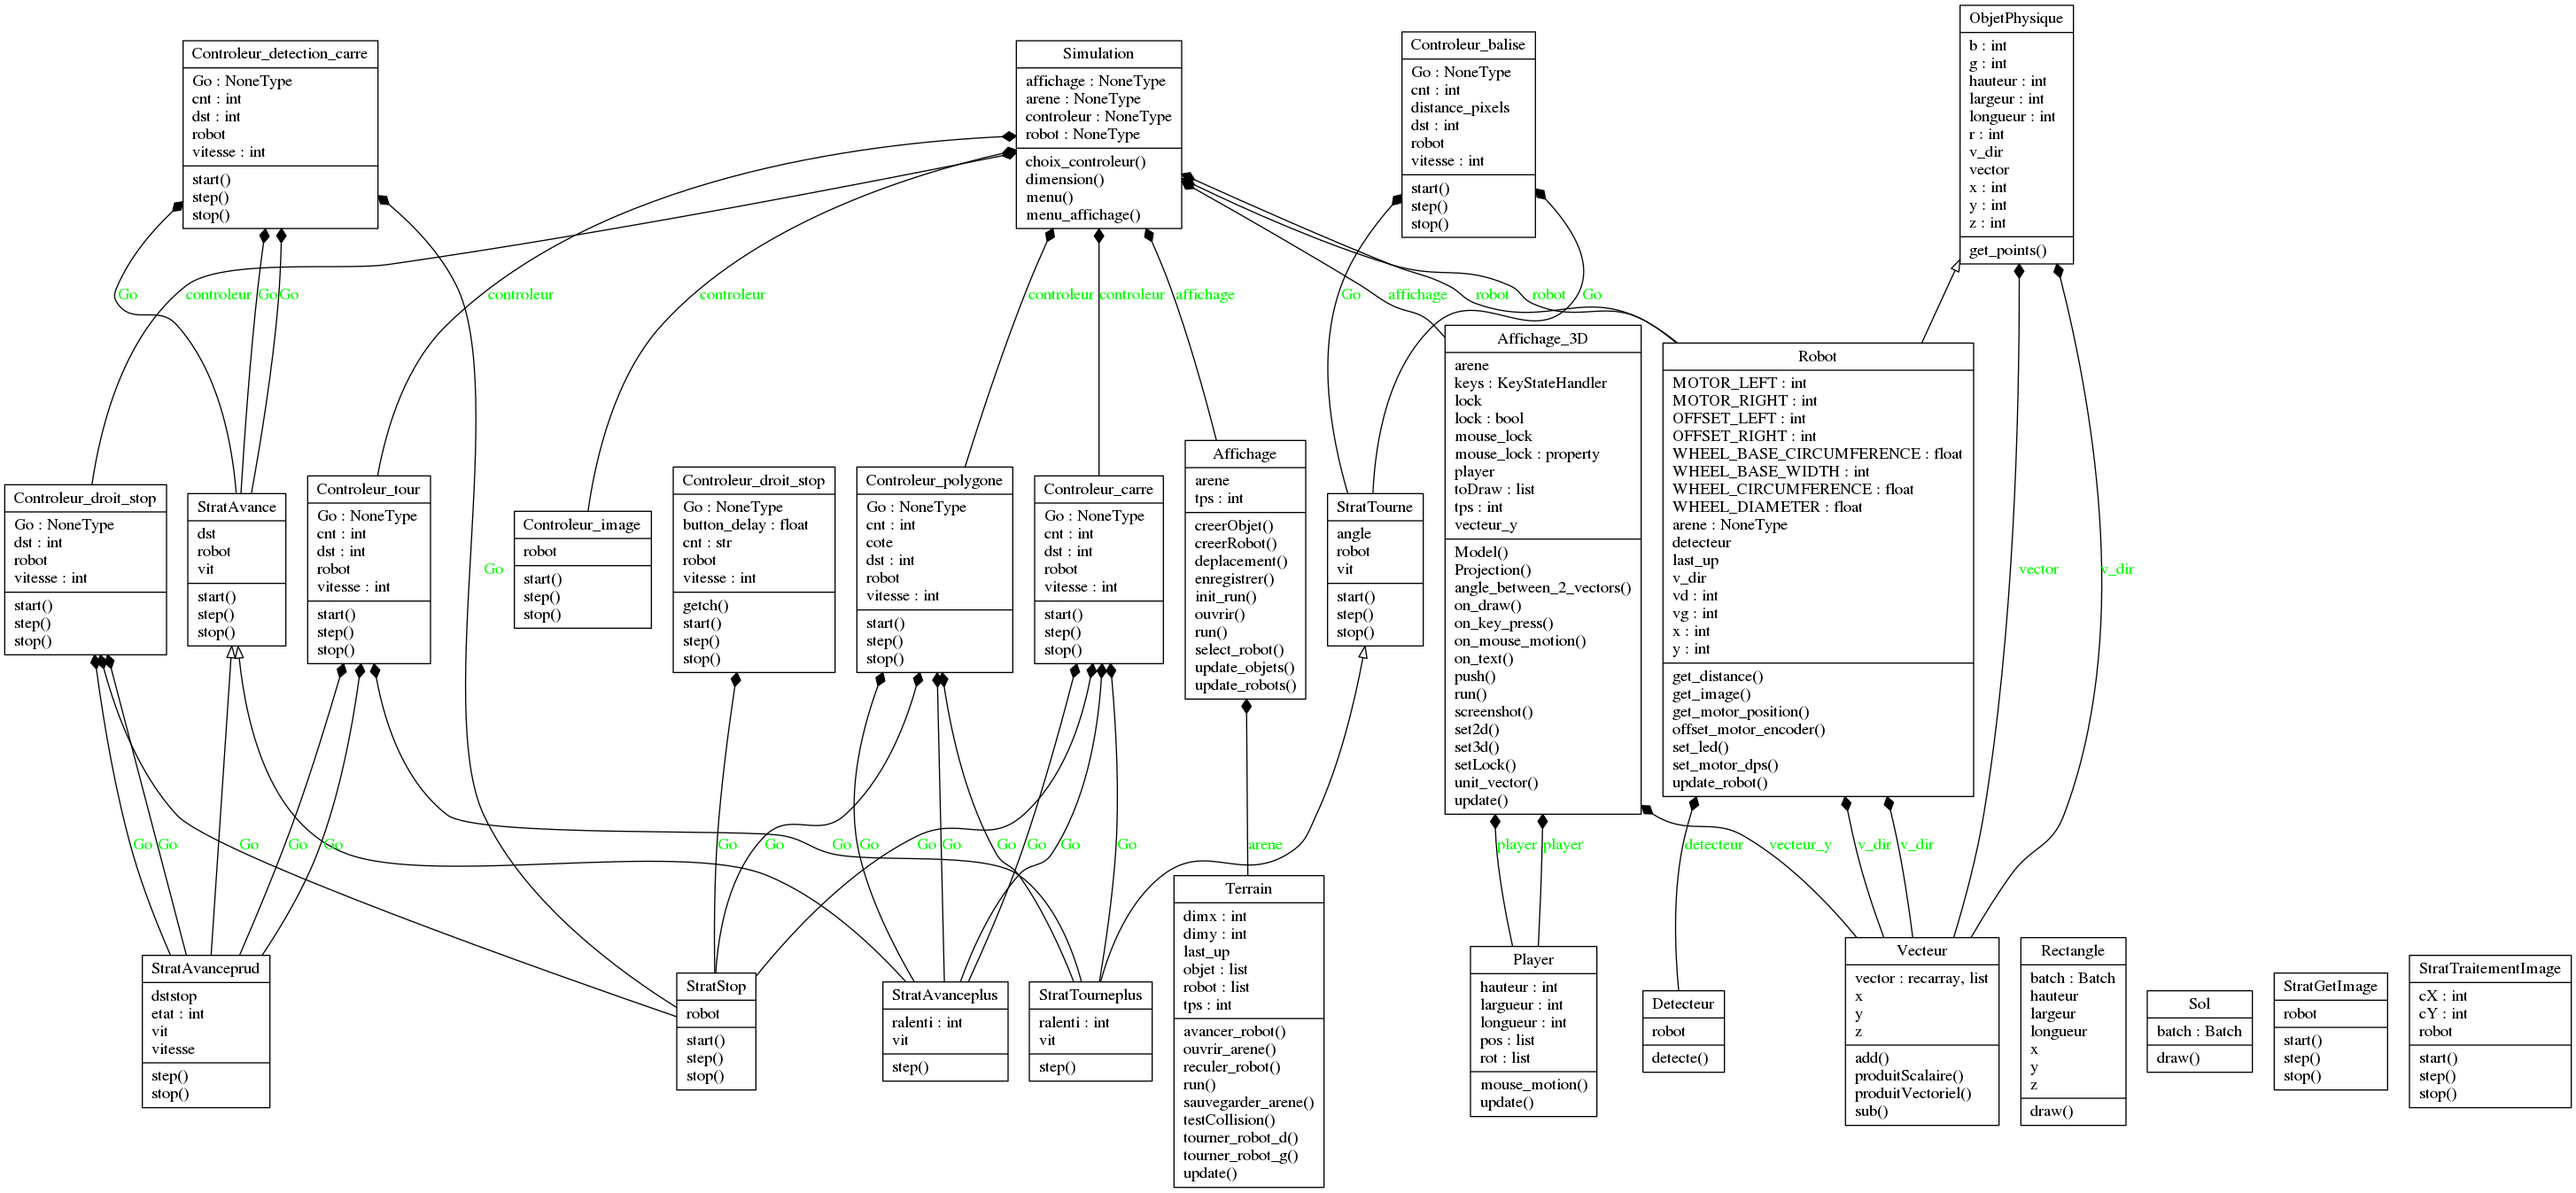
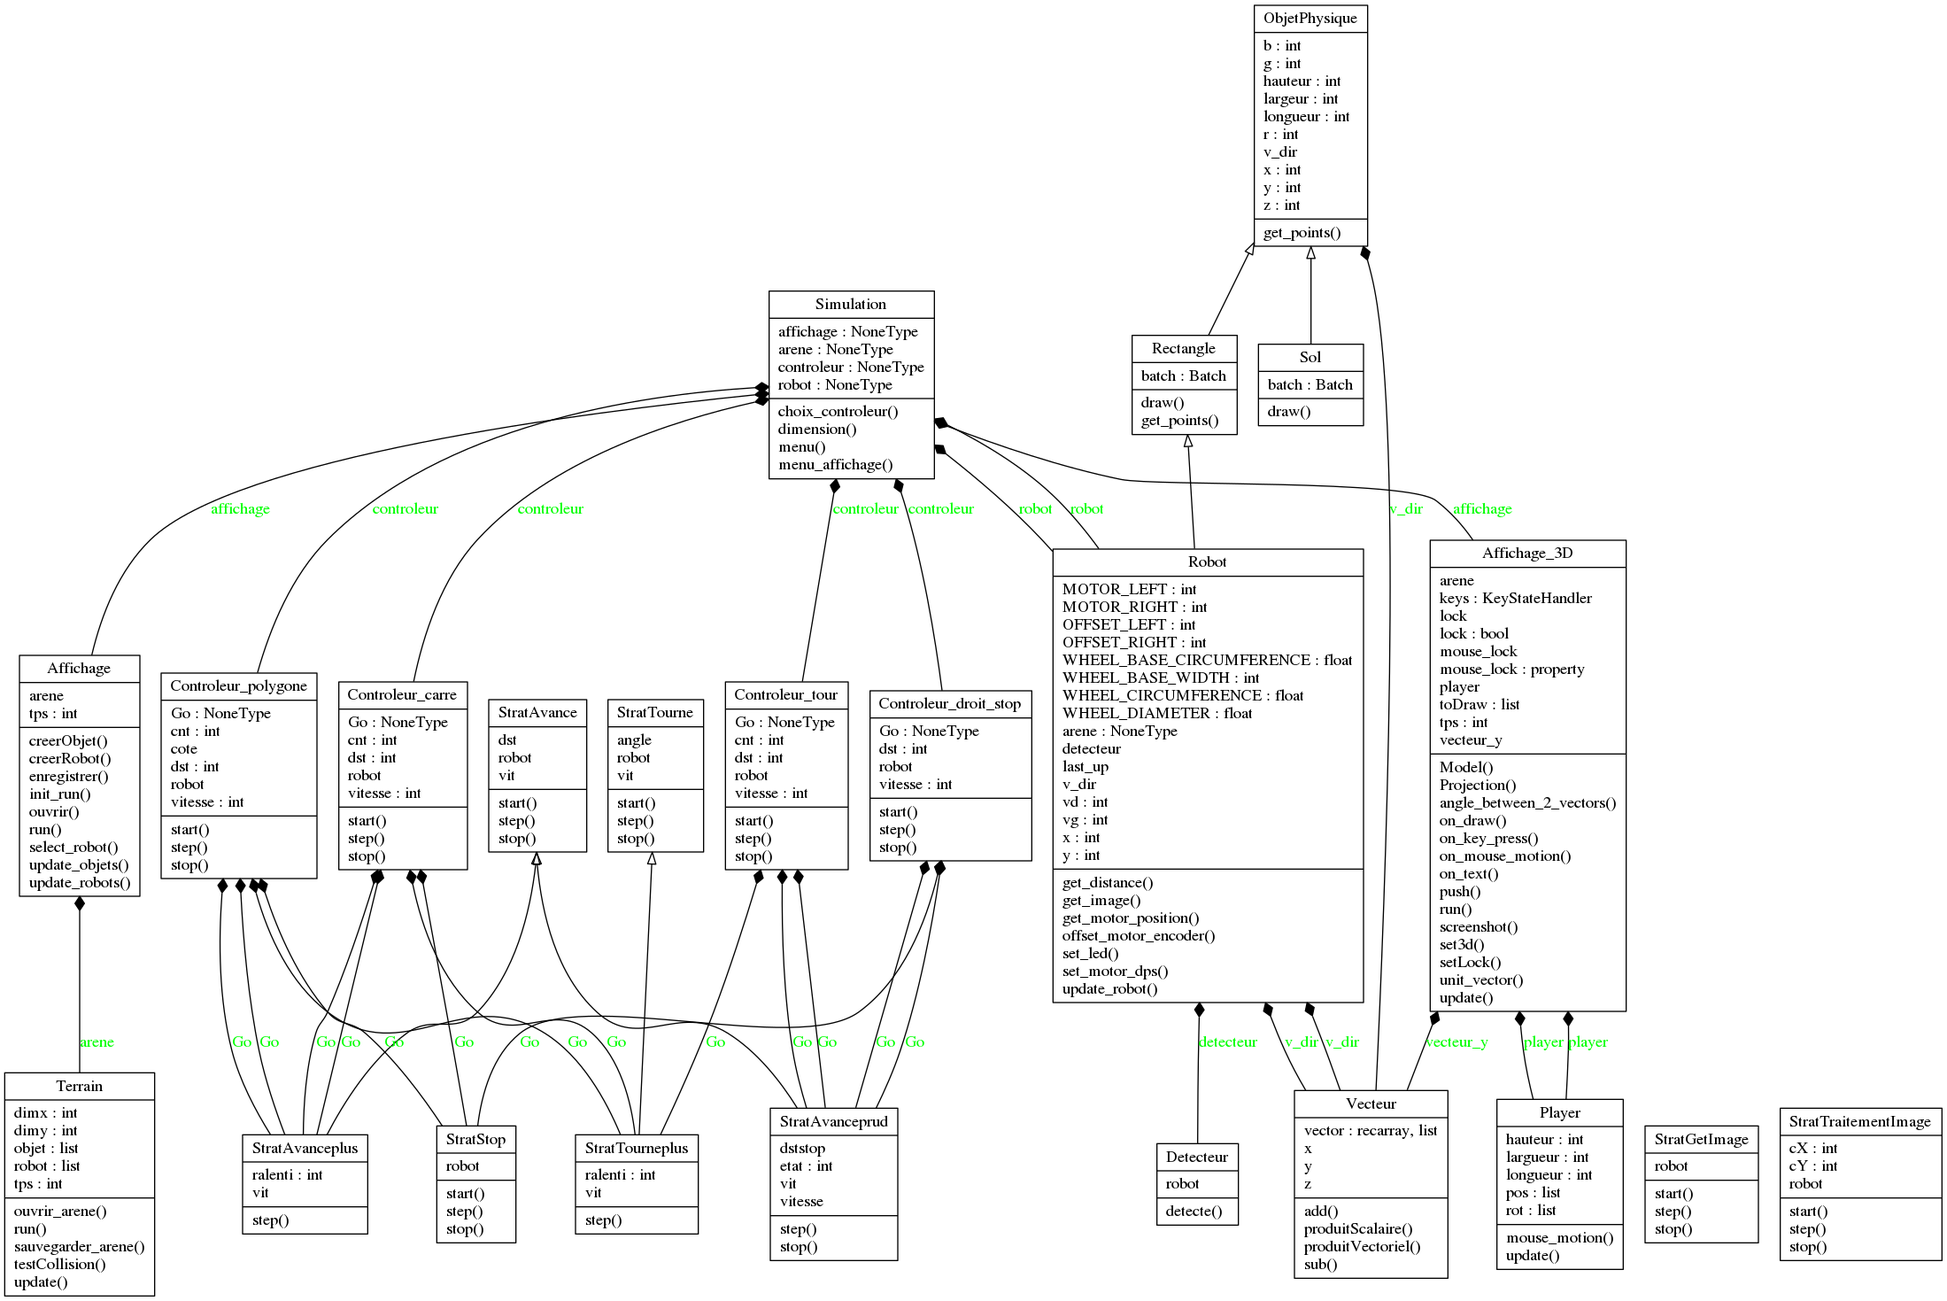
modifs

diff --git a/code/affichage_3D.py b/code/affichage_3D.py
@@ -11,116 +11,13 @@ import math
 import random
 import numpy
 from .terrain import Terrain
-from composant import Rectangle, Vecteur
+from composant import Rectangle, Vecteur, Sol, Player
 import time
 from threading import Thread
 import numpy as np
 import vg
 from PIL import Image
 
-class Rectangle():
-    def __init__(self, x, y, z, largeur, longueur, hauteur, r, g, b):
-
-        self.x = x
-        self.y = y
-        self.z = z
-        self.largeur = largeur
-        self.longueur = longueur
-        self.hauteur = hauteur
-
-        x = self.x - (self.largeur / 2)
-        y = self.y
-        z = self.z - (self.longueur / 2)
-
-        X = x + (self.largeur)
-        Y = y + self.hauteur
-        Z = z + (self.longueur)
-
-        color = ('c3B', (r, g, b) * 4)
-
-        self.batch = pyglet.graphics.Batch()
-
-        self.batch.add(4, GL_QUADS, None, ('v3f', (x,y,z, x,y,Z, x,Y,Z, x,Y,z)), color)
-        self.batch.add(4, GL_QUADS, None, ('v3f', (X,y,Z, X,y,z, X,Y,z, X,Y,Z)), color)
-        self.batch.add(4, GL_QUADS, None, ('v3f', (x,y,z, X,y,z, X,y,Z, x,y,Z)), color)
-        self.batch.add(4, GL_QUADS, None, ('v3f', (x,Y,Z, X,Y,Z, X,Y,z, x,Y,z)), color)
-        self.batch.add(4, GL_QUADS, None, ('v3f', (X,y,z, x,y,z, x,Y,z, X,Y,z)), color)
-        self.batch.add(4, GL_QUADS, None, ('v3f', (x,y,Z, X,y,Z, X,Y,Z, x,Y,Z)), color)
-
-    def draw(self):
-        self.batch.draw()
-
-class Sol():
-    def __init__(self, x = 750, y = 450, z = 0, largeur = 5000, longueur = 5000, hauteur = 1, \
-        r = 255, g = 255, b = 255):
-
-        color = ('c3B', (r, g, b) * 4)
-        color_lines = ('c3B', (0, 0, 0) * 2)
-
-        self.batch = pyglet.graphics.Batch()
-
-        hauteur = 150
-
-        self.batch.add(4, GL_QUADS, None, ('v3f', (0,0,0, 0,0,900, 1500,0,900, 1500,0,0)), color)
-
-        """
-        self.batch.add(2, GL_LINES, None, ('v3f', (0,hauteur,0, 1500,hauteur,900)), color_lines)
-        self.batch.add(2, GL_LINES, None, ('v3f', (0,hauteur,900, 1500,hauteur,0)), color_lines)
-        self.batch.add(2, GL_LINES, None, ('v3f', (0,hauteur,0, 1500,hauteur,0)), color_lines)
-        self.batch.add(2, GL_LINES, None, ('v3f', (0,hauteur,0, 0,hauteur,900)), color_lines)
-        self.batch.add(2, GL_LINES, None, ('v3f', (1500,hauteur,0, 1500,hauteur,900)), color_lines)
-        self.batch.add(2, GL_LINES, None, ('v3f', (0,hauteur,900, 1500,hauteur,900)), color_lines)
-        """
-   
-    def draw(self):
-        self.batch.draw()
-
-class Player():
-
-    """
-    Cette classe correspond à la caméra
-    Elle est définie par sa position et son orientation
-    """
-
-    def __init__(self,pos=(0,0,0),rot=(0,0), largeur = 1, longueur = 1, hauteur = 1):
-
-        self.pos = list(pos)
-        self.rot = list(rot)
-        self.largueur = largeur
-        self.longueur = hauteur
-        self.hauteur = longueur
-        
-    def mouse_motion(self,dx,dy):
-        dx /= 8; dy /= 8; self.rot[0] += dy; self.rot[1] -= dx
-        if self.rot[0] > 90: self.rot[0] = 90
-        elif self.rot[0]<-90: self.rot[0] = -90
-
-    def update(self,dt,keys):
-        s = dt*20
-        rotY = -self.rot[1]/180*math.pi
-        dx,dz = s*math.sin(rotY),s*math.cos(rotY)
-
-        if (keys[key.Z]):
-            self.pos[0]+=dx*10
-            self.pos[2]-=dz*10
-
-        if (keys[key.S]):
-            self.pos[0]-=dx*10
-            self.pos[2]+=dz*10
-
-        if (keys[key.Q]):
-            self.pos[0]-=dz*10
-            self.pos[2]-=dx*10
-
-        if (keys[key.D]):
-            self.pos[0]+=dz*10
-            self.pos[2]+=dx*10
-
-        if (keys[key.SPACE]):
-            self.pos[1]+=s
-
-        if (keys[key.LSHIFT]):
-            self.pos[1]-=s
 
 class Affichage_3D(pyglet.window.Window, Thread):
 

diff --git a/composant/player.py b/composant/player.py
@@ -1,0 +1,57 @@
+#!/usr/bin/env python3
+# -*- coding: utf-8 -*
+
+from .objetphysique import ObjetPhysique
+import numpy as np
+from math import radians,sqrt, cos, sin, pi
+import pyglet
+from pyglet.gl import *
+from pyglet.window import key
+import math
+
+class Player():
+
+    """
+    Cette classe correspond à la caméra
+    Elle est définie par sa position et son orientation
+    """
+
+    def __init__(self,pos=(0,0,0),rot=(0,0), largeur = 1, longueur = 1, hauteur = 1):
+
+        self.pos = list(pos)
+        self.rot = list(rot)
+        self.largueur = largeur
+        self.longueur = hauteur
+        self.hauteur = longueur
+        
+    def mouse_motion(self,dx,dy):
+        dx /= 8; dy /= 8; self.rot[0] += dy; self.rot[1] -= dx
+        if self.rot[0] > 90: self.rot[0] = 90
+        elif self.rot[0]<-90: self.rot[0] = -90
+
+    def update(self,dt,keys):
+        s = dt*20
+        rotY = -self.rot[1]/180*math.pi
+        dx,dz = s*math.sin(rotY),s*math.cos(rotY)
+
+        if (keys[key.Z]):
+            self.pos[0]+=dx*10
+            self.pos[2]-=dz*10
+
+        if (keys[key.S]):
+            self.pos[0]-=dx*10
+            self.pos[2]+=dz*10
+
+        if (keys[key.Q]):
+            self.pos[0]-=dz*10
+            self.pos[2]-=dx*10
+
+        if (keys[key.D]):
+            self.pos[0]+=dz*10
+            self.pos[2]+=dx*10
+
+        if (keys[key.SPACE]):
+            self.pos[1]+=s
+
+        if (keys[key.LSHIFT]):
+            self.pos[1]-=s

diff --git a/composant/sol.py b/composant/sol.py
@@ -1,0 +1,35 @@
+#!/usr/bin/env python3
+# -*- coding: utf-8 -*
+
+from .objetphysique import ObjetPhysique
+import numpy as np
+from math import radians,sqrt, cos, sin, pi
+import pyglet
+from pyglet.gl import *
+
+class Sol(ObjetPhysique):
+    def __init__(self, x = 750, y = 450, z = 0, largeur = 5000, longueur = 5000, hauteur = 1, \
+        r = 255, g = 255, b = 255):
+
+        super().__init__(x, y, z, largeur, longueur, hauteur, r, g, b)
+
+        color = ('c3B', (r, g, b) * 4)
+        color_lines = ('c3B', (0, 0, 0) * 2)
+
+        self.batch = pyglet.graphics.Batch()
+
+        hauteur = 150
+
+        self.batch.add(4, GL_QUADS, None, ('v3f', (0,0,0, 0,0,900, 1500,0,900, 1500,0,0)), color)
+
+        """
+        self.batch.add(2, GL_LINES, None, ('v3f', (0,hauteur,0, 1500,hauteur,900)), color_lines)
+        self.batch.add(2, GL_LINES, None, ('v3f', (0,hauteur,900, 1500,hauteur,0)), color_lines)
+        self.batch.add(2, GL_LINES, None, ('v3f', (0,hauteur,0, 1500,hauteur,0)), color_lines)
+        self.batch.add(2, GL_LINES, None, ('v3f', (0,hauteur,0, 0,hauteur,900)), color_lines)
+        self.batch.add(2, GL_LINES, None, ('v3f', (1500,hauteur,0, 1500,hauteur,900)), color_lines)
+        self.batch.add(2, GL_LINES, None, ('v3f', (0,hauteur,900, 1500,hauteur,900)), color_lines)
+        """
+   
+    def draw(self):
+        self.batch.draw()

diff --git a/composant/rectangle.py b/composant/rectangle.py
@@ -1,8 +1,38 @@
+#!/usr/bin/env python3
+# -*- coding: utf-8 -*
+
 from .objetphysique import ObjetPhysique
 import numpy as np
 from math import radians,sqrt, cos, sin, pi
+import pyglet
+from pyglet.gl import *
 
 class Rectangle(ObjetPhysique):
+
+    def __init__(self, x = 0, y = 0, z = 0, largeur = 50, longueur = 100, hauteur = 20, r = 50, g = 50, b = 0):
+        super().__init__(x, y, z, largeur, longueur, hauteur, r, g, b)
+
+        x = self.x - (self.largeur / 2)
+        y = self.y
+        z = self.z - (self.longueur / 2)
+
+        X = x + (self.largeur)
+        Y = y + self.hauteur
+        Z = z + (self.longueur)
+
+        color = ('c3B', (r, g, b) * 4)
+
+        self.batch = pyglet.graphics.Batch()
+
+        self.batch.add(4, GL_QUADS, None, ('v3f', (x,y,z, x,y,Z, x,Y,Z, x,Y,z)), color)
+        self.batch.add(4, GL_QUADS, None, ('v3f', (X,y,Z, X,y,z, X,Y,z, X,Y,Z)), color)
+        self.batch.add(4, GL_QUADS, None, ('v3f', (x,y,z, X,y,z, X,y,Z, x,y,Z)), color)
+        self.batch.add(4, GL_QUADS, None, ('v3f', (x,Y,Z, X,Y,Z, X,Y,z, x,Y,z)), color)
+        self.batch.add(4, GL_QUADS, None, ('v3f', (X,y,z, x,y,z, x,Y,z, X,Y,z)), color)
+        self.batch.add(4, GL_QUADS, None, ('v3f', (x,y,Z, X,y,Z, X,Y,Z, x,Y,Z)), color)
+
+    def draw(self):
+        self.batch.draw()
     
     def get_points(self):
     

diff --git a/controleur/__init__.py b/controleur/__init__.py
@@ -1,6 +1,5 @@
 from .controleur_carre import Controleur_carre
 from .controleur_droit_stop import Controleur_droit_stop
-from .controleur_image import Controleur_image
 from .controleur_tour import Controleur_tour
 from .controleur_polygone import Controleur_polygone
 #from .controleur_detection_carre import Controleur_detection_carre

diff --git a/main.py b/main.py
@@ -3,7 +3,7 @@
 
 import time
 from diver import *
-from controleur import Controleur_carre, Controleur_droit_stop, Controleur_image, Controleur_tour, Controleur_polygone
+from controleur import Controleur_carre, Controleur_droit_stop, Controleur_tour, Controleur_polygone
 import sys
 from PIL import Image
 import os 

diff --git a/composant/__init__.py b/composant/__init__.py
@@ -5,3 +5,5 @@ from .vecteur import Vecteur
 from .objetphysique import ObjetPhysique
 from .robot import Robot
 from .rectangle import Rectangle
+from .sol import Sol
+from .player import Player

diff --git a/code/__init__.py b/code/__init__.py
@@ -4,4 +4,3 @@
 from .affichage import Affichage
 from .terrain import Terrain
 from .affichage_3D import Affichage_3D
-
